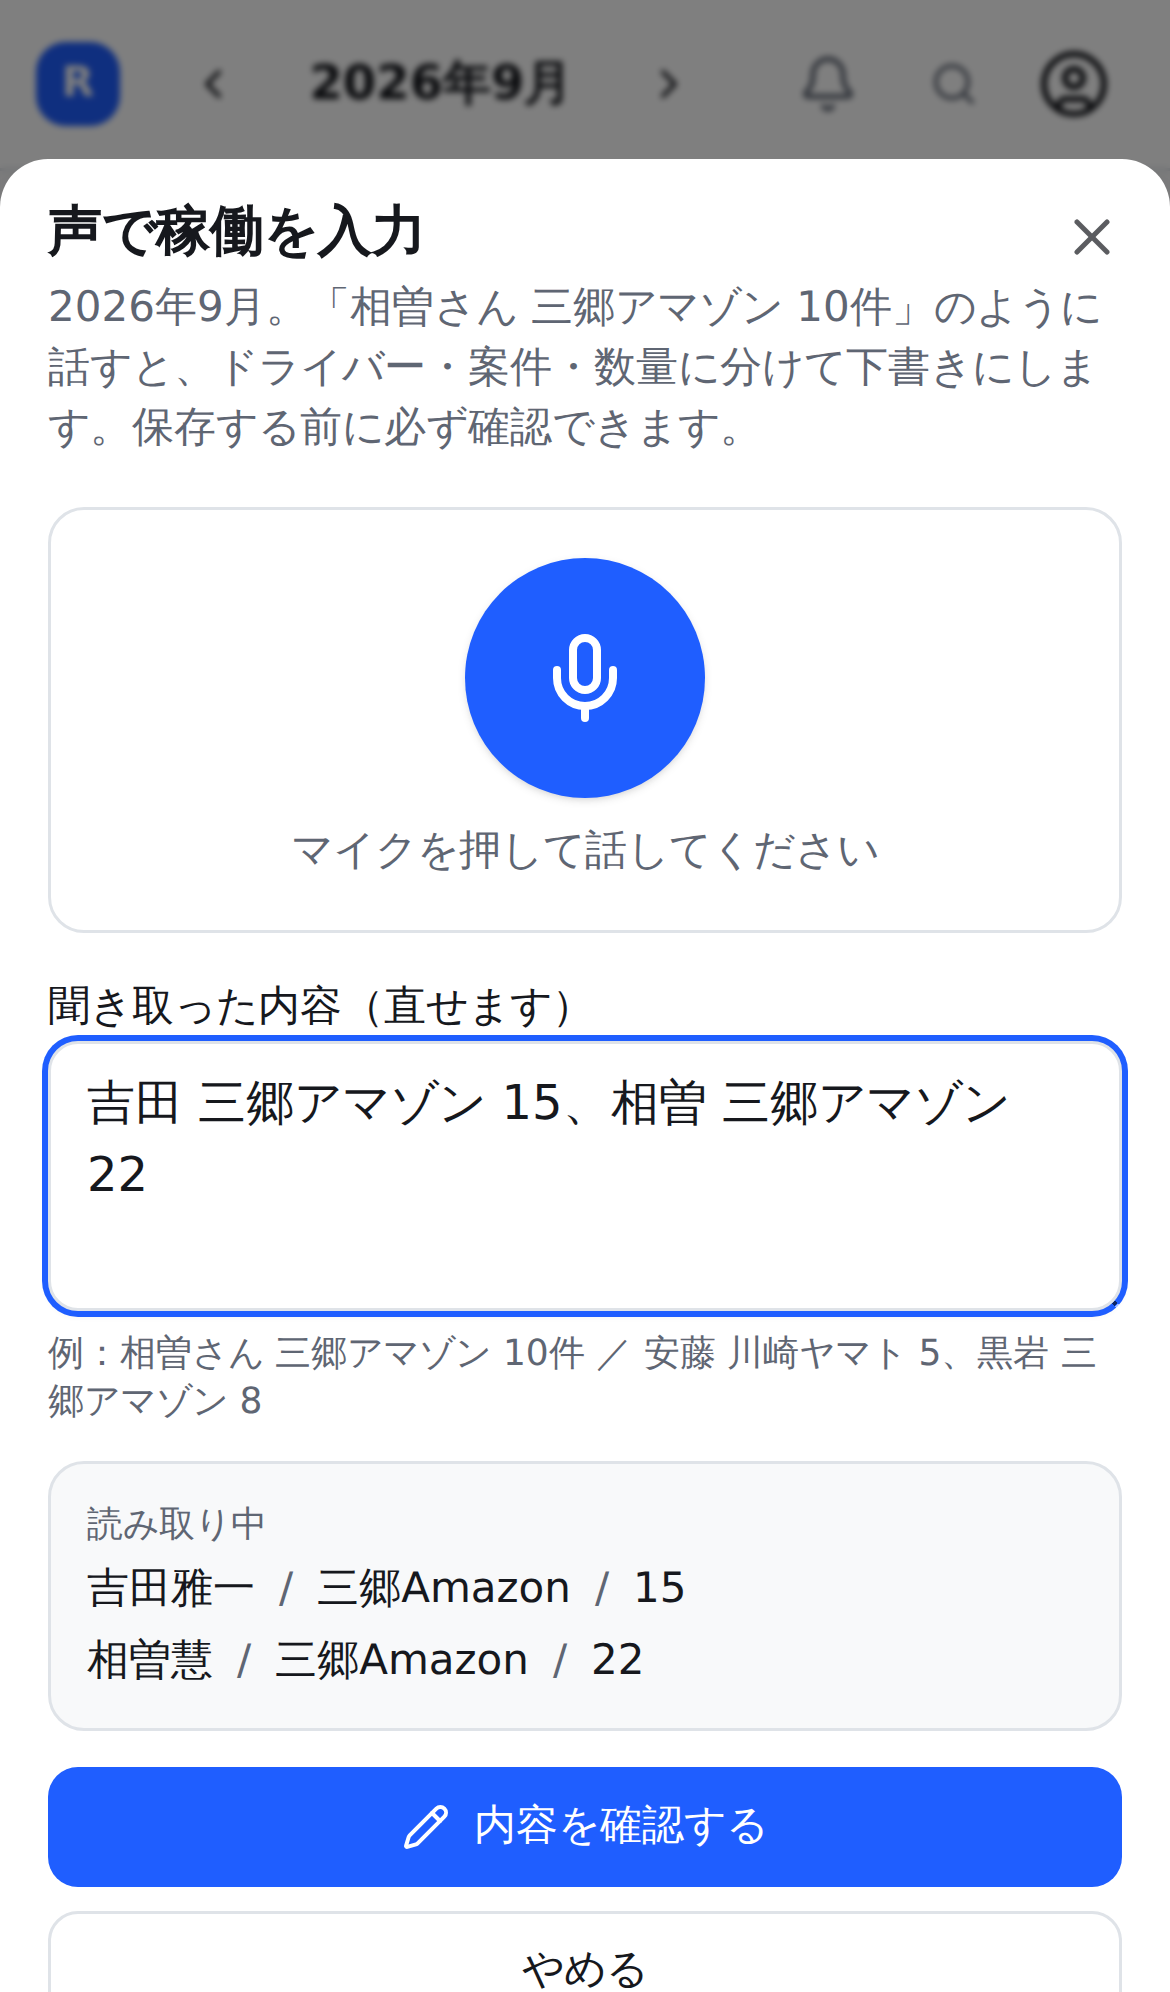
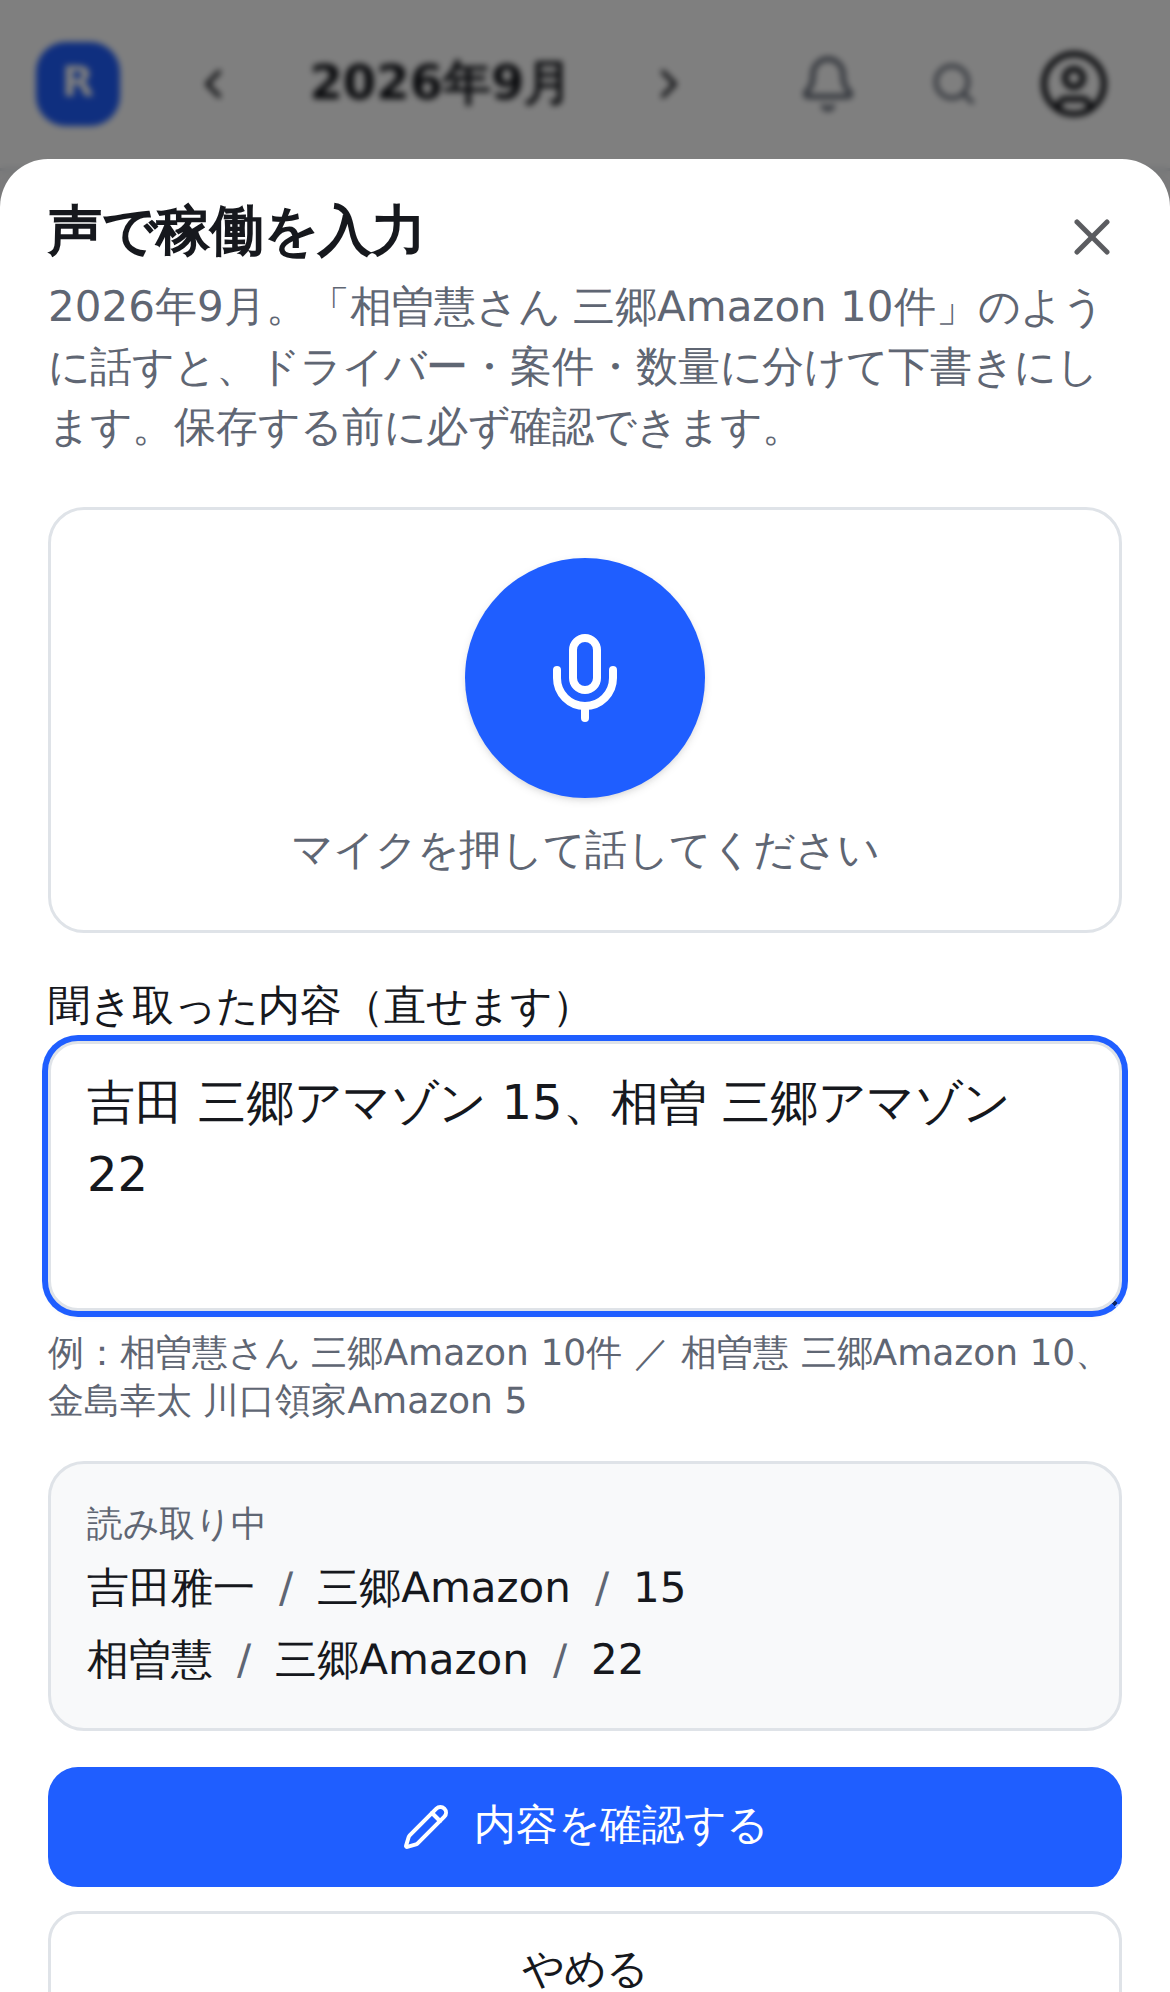
声で入力の言い方の見本を、実際に登録されている名前で出す
見本が「安藤」「川崎ヤマト」のような、この会社に無い名前のままだった。
登録されているドライバーと案件から作るようにして、
「相曽慧さん 三郷Amazon 10件」のように、そのまま真似できる文にする。

E2E は見本にも名前が出るようになったため、読み取り結果の一覧の行に絞って確かめる。

Claude-Session: https://claude.ai/code/session_01J8t4heP37FbEzEQUnDVCqV

Changed region(s): [[0.0308, 0.1245, 0.9231, 0.249], [0.0308, 0.6536, 0.5231, 0.7159], [0.5538, 0.6536, 0.9231, 0.6847]]

diff --git a/components/entries/voice-entry-dialog.tsx b/components/entries/voice-entry-dialog.tsx
@@ -46,7 +46,14 @@ interface DraftRow {
   source: string;
 }
 
-const EXAMPLES = ["相曽さん 三郷アマゾン 10件", "安藤 川崎ヤマト 5、黒岩 三郷アマゾン 8"];
+/** 言い方の見本を、実際に登録されているドライバー・案件から作る */
+function buildExamples(drivers: { name: string }[], items: { label: string }[]): string[] {
+  const d1 = drivers[0]?.name ?? "ドライバー名";
+  const d2 = drivers[1]?.name ?? d1;
+  const i1 = items[0]?.label ?? "案件名";
+  const i2 = items[1]?.label ?? i1;
+  return [`${d1}さん ${i1} 10件`, `${d1} ${i1} 10、${d2} ${i2} 5`];
+}
 
 export function VoiceEntryDialog({ open, onOpenChange, month, masters, rows, onSaved }: VoiceEntryDialogProps) {
   const router = useRouter();
@@ -86,6 +93,7 @@ export function VoiceEntryDialog({ open, onOpenChange, month, masters, rows, onS
   );
 
   const items = useMemo(() => itemOptions(masters), [masters]);
+  const examples = useMemo(() => buildExamples(masters.drivers, items), [masters.drivers, items]);
 
   /** いま聞き取れている内容（話している最中の下書き） */
   const preview = useMemo(() => parseVoiceEntries(`${text} ${interim}`.trim(), voiceMasters), [text, interim, voiceMasters]);
@@ -193,7 +201,7 @@ export function VoiceEntryDialog({ open, onOpenChange, month, masters, rows, onS
         <DialogHeader>
           <DialogTitle>声で稼働を入力</DialogTitle>
           <DialogDescription>
-            {formatMonthJa(month)}。「相曽さん 三郷アマゾン 10件」のように話すと、ドライバー・案件・数量に分けて下書きにします。保存する前に必ず確認できます。
+            {formatMonthJa(month)}。「{examples[0]}」のように話すと、ドライバー・案件・数量に分けて下書きにします。保存する前に必ず確認できます。
           </DialogDescription>
         </DialogHeader>
 
@@ -228,9 +236,9 @@ export function VoiceEntryDialog({ open, onOpenChange, month, masters, rows, onS
                   setInterim("");
                 }}
                 rows={3}
-                placeholder={EXAMPLES[0]}
+                placeholder={examples[0]}
               />
-              <p className="text-xs text-muted-foreground">例：{EXAMPLES.join(" ／ ")}</p>
+              <p className="text-xs text-muted-foreground">例：{examples.join(" ／ ")}</p>
             </div>
 
             {preview.entries.length > 0 && (

diff --git a/tests/e2e/21-voice.spec.ts b/tests/e2e/21-voice.spec.ts
@@ -37,8 +37,10 @@ test.describe("声で稼働を入力", () => {
     // 「アマゾン」と話しても、英字で登録された「三郷Amazon」に当たる
     await dialog.getByLabel("聞き取った内容").fill("吉田 三郷アマゾン 15、相曽 三郷アマゾン 22");
     await expect(dialog.getByText("読み取り中")).toBeVisible();
-    await expect(dialog.getByText("吉田雅一")).toBeVisible();
-    await expect(dialog.getByText("相曽慧")).toBeVisible();
+    // 読み取り結果の行（言い方の見本にも名前が出るので、一覧の行に絞って確かめる）
+    const preview = dialog.getByRole("listitem");
+    await expect(preview.filter({ hasText: "吉田雅一" })).toHaveCount(1);
+    await expect(preview.filter({ hasText: "相曽慧" })).toHaveCount(1);
     if (isMobile) await saveScreenshot(page, "voice-entry-mobile.png", { fullPage: false });
 
     await dialog.getByRole("button", { name: "内容を確認する" }).click();
